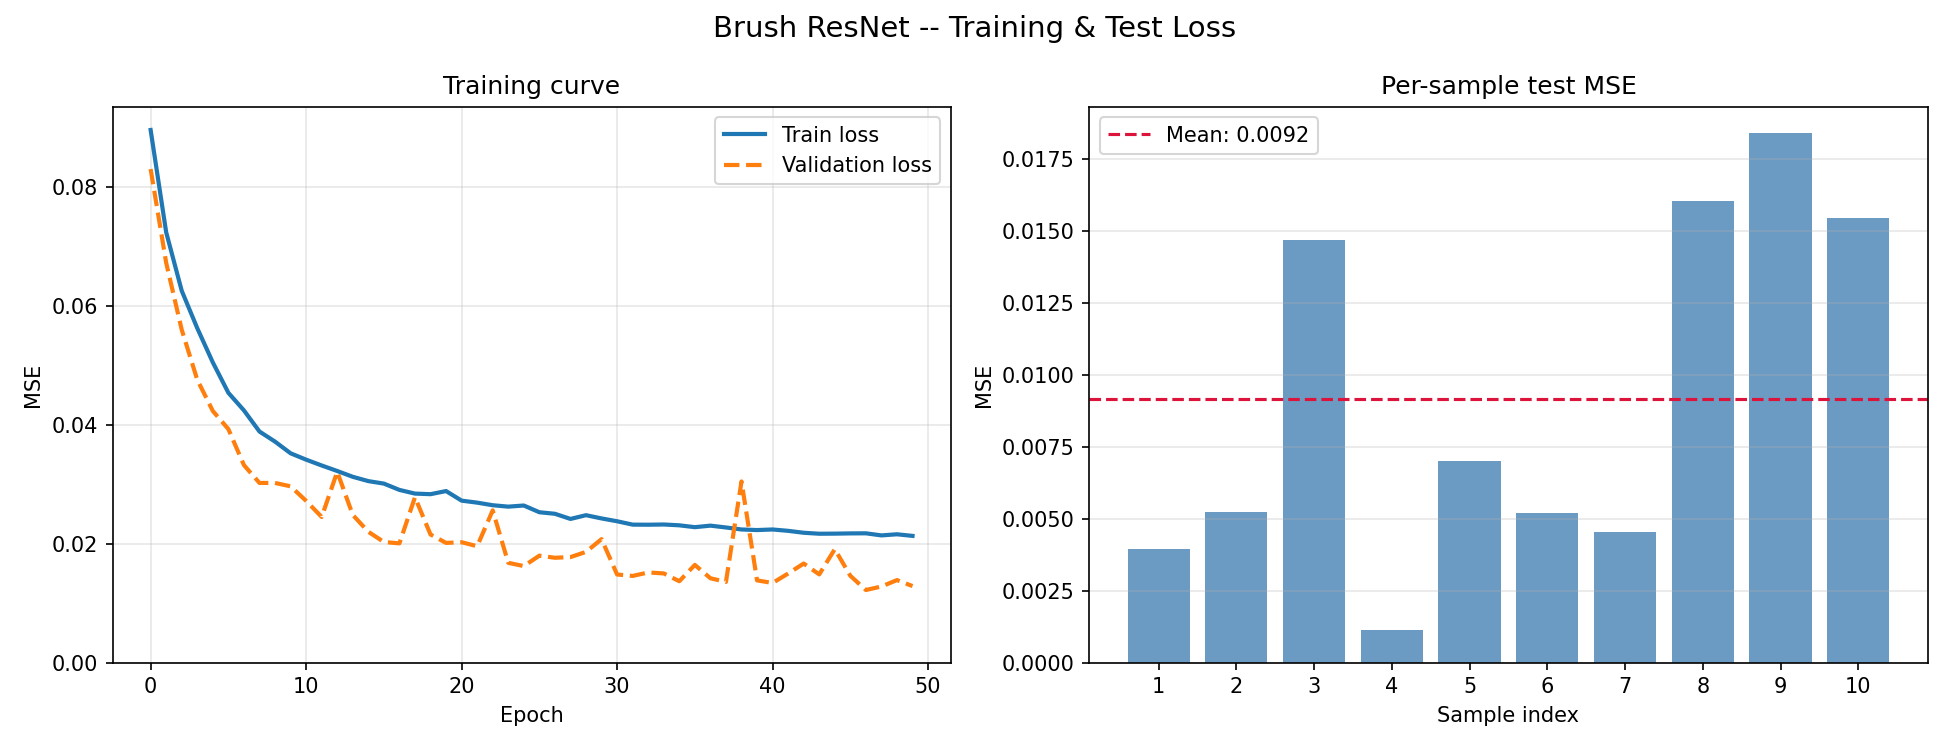
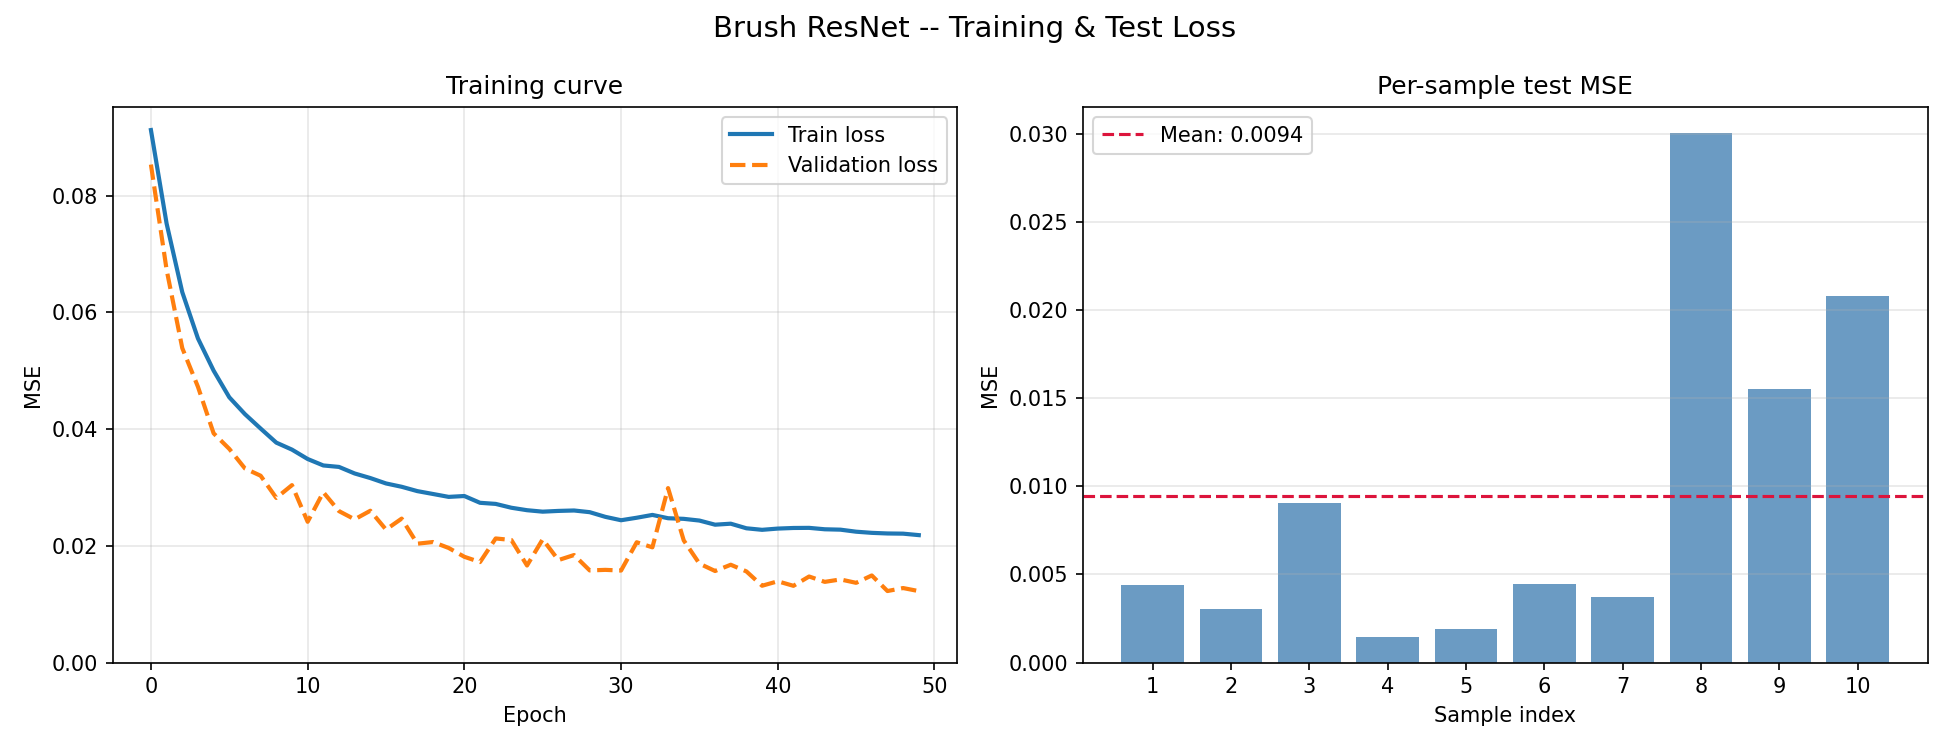
Edited main for test option

diff --git a/Cnn.py b/Cnn.py
@@ -403,7 +403,7 @@ def plot_loss(train_losses, val_losses, test_losses):
 
 
 def main():
-    cmd = input("Y to run full training loop, X to test sample")
+    cmd = input("Y to run full training loop, N to test sample")
     SCRIPT_DIR = os.path.dirname(os.path.abspath(__file__))
     DATA_DIR = os.path.join(SCRIPT_DIR, "Data")
 